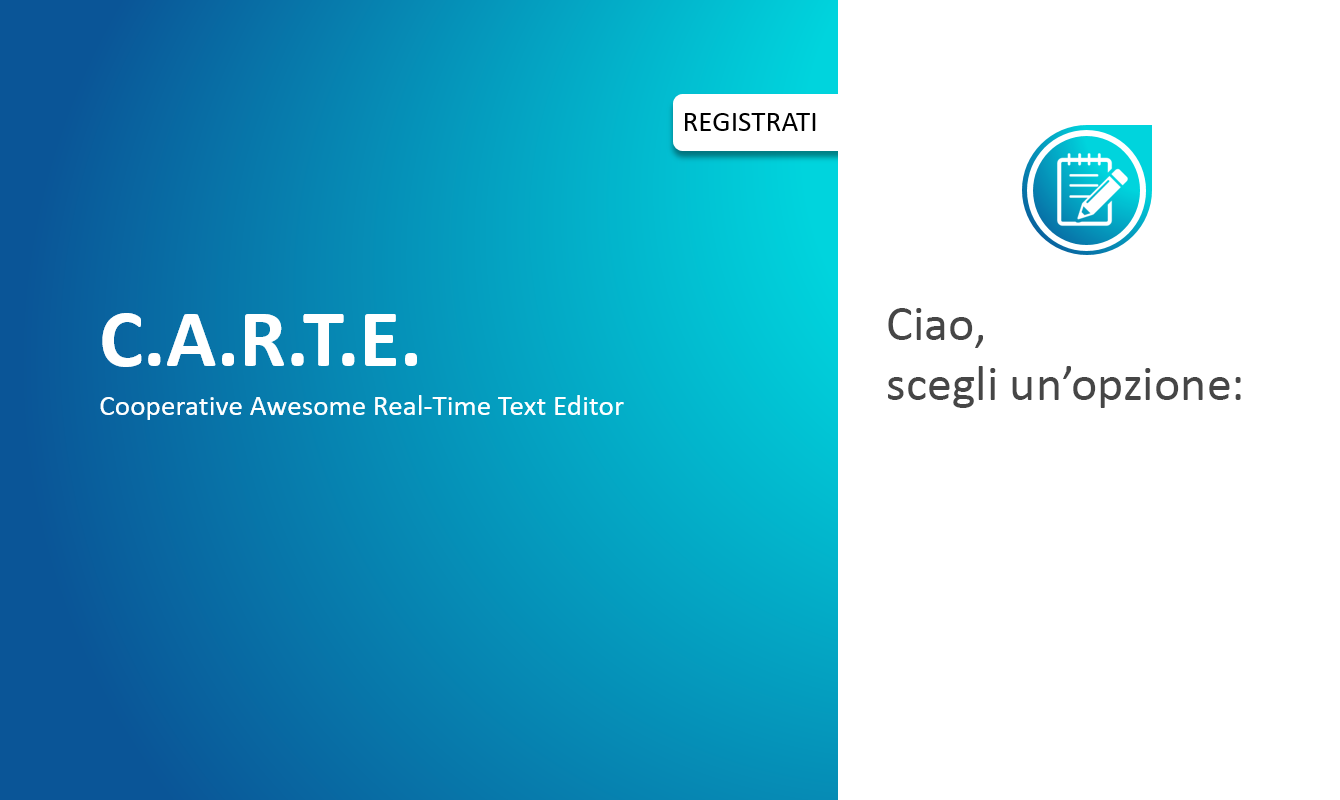
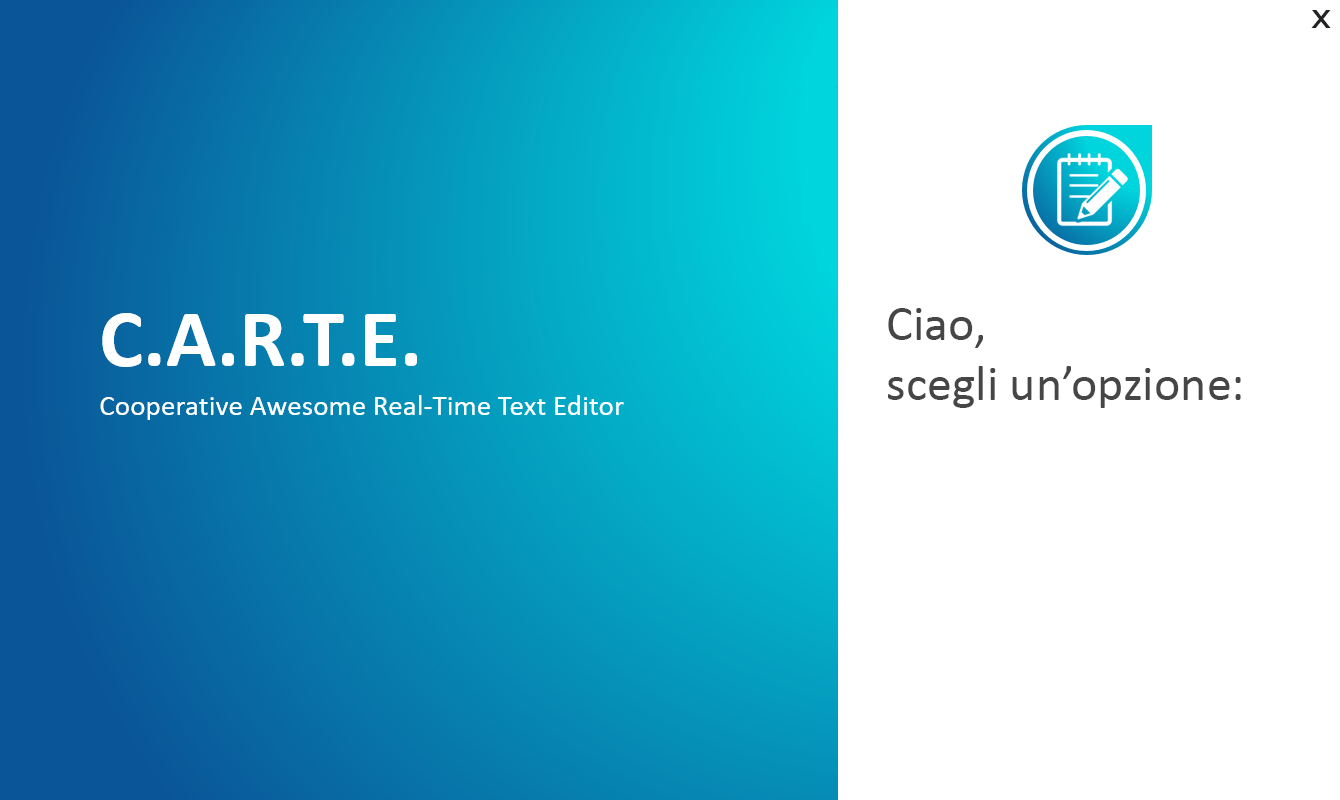
v0.1.4a - Daily 1192
Aggiornamento interfaccia grafica

Changed region(s): [[0.4896, 0.0938, 0.6425, 0.2188], [0.9791, 0.0, 1.0, 0.0312]]

diff --git a/ClientModule/versioninfo.h b/ClientModule/versioninfo.h
@@ -13,7 +13,7 @@ private:
     QString str;
 public:
     //CONSTRUCTOR WITHOUT PARAMETER (Default)
-    VersionInfo(): Major(0), Minor(1), Patch(4), ReleaseType("a"), BuildTypeAndNumber("Nightly 1190"){
+    VersionInfo(): Major(0), Minor(1), Patch(4), ReleaseType("a"), BuildTypeAndNumber("Daily 1192"){
         str = "v"+QString::number(Major)+"."+QString::number(Minor)+"."+QString::number(Patch)+ReleaseType+" - "+BuildTypeAndNumber;
     }
 

diff --git a/ClientModule/changelog.md b/ClientModule/changelog.md
@@ -1,11 +1,18 @@
 # Changelog ClientModule
 
 ### Note
-- Valutare la possibilità si spostare la connessione al server sol dopo il click sul pulsante accedi o registrati anzichè all'apertura della finestra di login.
-  Il caricamento della finestra è molto rallentato a causa del tentativo di connessione
 - Valutare la possibilità di rendere tutte le precedenti finestre con bordi arrotondati
 ### Todo
 - Rimuovere immagini non usate dalla cartella "image"
+
+## [v0.1.4a - Daily 1192] - 2019/10/19 @ 16:20
+### Cambiamenti
+- Aggiornamento interfaccia grafica
+
+## [v0.1.4a - Daily 1191] - 2019/10/19 @ 13:00
+### Aggiunto
+- Connessione al DB
+- Funzionalità di registrazione
 
 ## [v0.1.4a - Canary 1190] - 2019/10/18 @ 20:00
 ### Aggiunto
